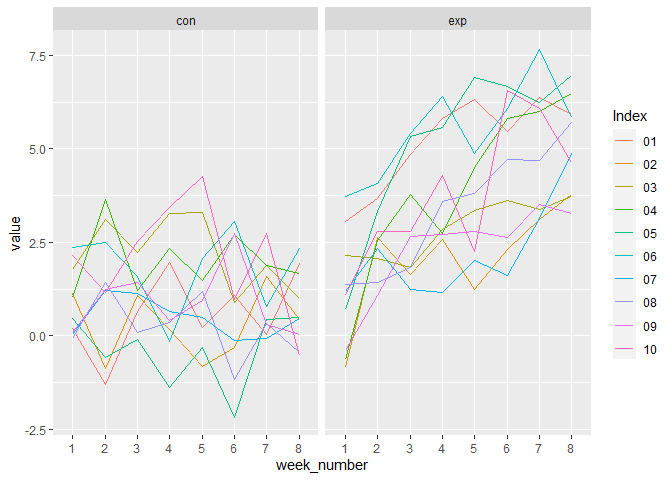
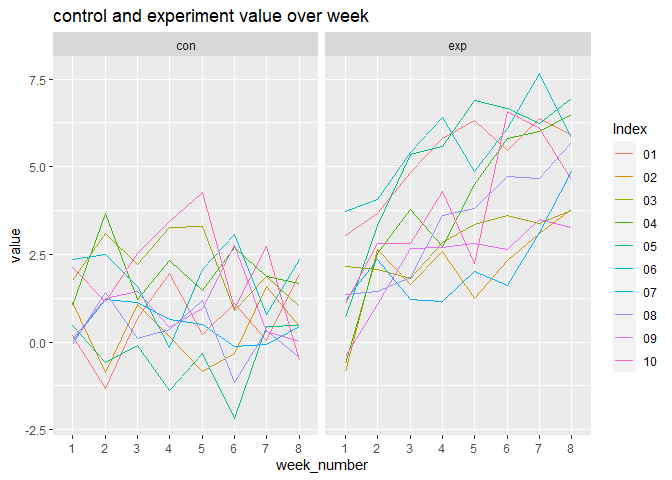
add a name to graph in Q1

diff --git a/p8105_hw5_sx2337.md b/p8105_hw5_sx2337.md
@@ -50,7 +50,8 @@ All_files =
     values_to = "value"
   ) %>% 
   ggplot(aes(x = week_number, y=value, group = Index))+
-  geom_line(aes(color = Index)) + facet_grid(. ~ Control_Experiment)
+  geom_line(aes(color = Index)) + facet_grid(. ~ Control_Experiment)+
+  labs(title = "control and experiment value over week" )
 All_files
 ```
 
@@ -225,7 +226,7 @@ sim_t_test()
     ## # A tibble: 1 × 2
     ##   estimate p.value
     ##      <dbl>   <dbl>
-    ## 1    0.847   0.420
+    ## 1    -1.93  0.0271
 
 Now generate 5000 times and save mu and pvalue:
 
